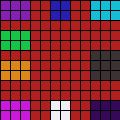
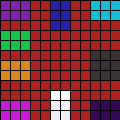
Added Piece class & implemented basic movement

Changed region(s): [[0.425, 0.75, 0.6, 0.85], [0.425, 0.175, 0.6, 0.25]]

diff --git a/GameState.cpp b/GameState.cpp
@@ -43,6 +43,7 @@ namespace gui {
 
 	void GameState::handleInput() {
 		sf::Event event;
+		int dir;
 		while (this->data->window.pollEvent(event)) {
 			if (sf::Event::Closed == event.type) {
 				this->data->window.close();
@@ -50,6 +51,18 @@ namespace gui {
 			if (event.type == sf::Event::KeyPressed) {
 				if (event.key.code == sf::Keyboard::Escape) {
 					this->data->machine.addState(stateRef(new PauseState(data)), false);
+				}
+				if (event.key.code == sf::Keyboard::Right) {
+					piece->movePiece(1);
+				}
+				if (event.key.code == sf::Keyboard::Left) {
+					piece->movePiece(2);
+				}
+				if (event.key.code == sf::Keyboard::Up) {
+					piece->movePiece(3);
+				}
+				if (event.key.code == sf::Keyboard::Down) {
+					piece->movePiece(4);
 				}
 			}
 			if (this->data->input.isSpriteClicked(this->rollButton, sf::Mouse::Left,
@@ -90,6 +103,7 @@ namespace gui {
 		this->data->window.draw(this->gridSprite);
 		this->data->window.draw(this->gridPieces[11][7]);
 		this->data->window.draw(this->gridPieces[11][4]);
+		piece->drawPieces();
 		this->data->window.draw(this->rollButton);
 		this->data->window.draw(this->suggestButton);
 		this->data->window.draw(this->accuseButton);
@@ -107,10 +121,12 @@ namespace gui {
 					tempSpriteSize.x * 10) - 32, gridSprite.getPosition().y + (
 						tempSpriteSize.y * 7) + 270);
 
-		gridPieces[11][4].setTexture(this->data->assets.getTexture("Green Piece"));
-		gridPieces[11][4].setPosition(gridSprite.getPosition().x + (
+		piece = new Piece(data, "Green Piece");
+		tempSpriteSize = this->data->assets.getTexture("Green Piece").getSize();
+		piece->getPiece().setPosition(gridSprite.getPosition().x + (
 					tempSpriteSize.x * 7) - 65, gridSprite.getPosition().y + (
 						tempSpriteSize.y * 7) + 270);
+
 
 		//position remaining game pieces
 	}

diff --git a/Piece.cpp b/Piece.cpp
@@ -1,0 +1,33 @@
+#include "Piece.hpp"
+
+namespace gui {
+	Piece::Piece(GameDataRef data, std::string name) : data(data) {
+		piece.setTexture(data->assets.getTexture(name));
+		piece.setPosition((data->window.getSize().x / 4) - (
+					piece.getGlobalBounds().width / 2), (data->window.getSize().y / 2) -
+				(piece.getGlobalBounds().height / 2));
+	}
+
+	void Piece::drawPieces() {
+		data->window.draw(piece);
+	}
+
+	void Piece::movePiece(int dir) {
+		if (dir == 1)
+			piece.move(GRID_CELL_SIZE, 0);
+		else if (dir == 2)
+			piece.move(-GRID_CELL_SIZE, 0);
+		else if (dir == 3)
+			piece.move(0, -GRID_CELL_SIZE);
+		else
+			piece.move(0, GRID_CELL_SIZE);
+	}
+
+	void Piece::update(float dt) {
+
+	}
+
+	sf::Sprite& Piece::getPiece() {
+		return piece;
+	}
+}

diff --git a/Piece.hpp b/Piece.hpp
@@ -1,0 +1,21 @@
+#pragma once
+
+#include <SFML/Graphics.hpp>
+#include "DEFINITIONS.hpp"
+#include "Game.hpp"
+
+namespace gui {
+	class Piece {
+		public:
+			Piece(GameDataRef data, std::string name);
+			~Piece();
+			void drawPieces();
+			void movePiece(int);
+			void update(float dt);
+			sf::Sprite& getPiece();
+
+		private:
+			GameDataRef data;
+			sf::Sprite piece;
+	};
+}

diff --git a/GameState.hpp b/GameState.hpp
@@ -3,6 +3,7 @@
 #include <SFML/Graphics.hpp>
 #include "State.hpp"
 #include "Game.hpp"
+#include "Piece.hpp"
 
 namespace gui {
 	class GameState : public State {
@@ -28,6 +29,8 @@ namespace gui {
 
 			sf::Sprite gridPieces[12][12];
 			int gridArray[12][12];
+
+			Piece* piece;
 
 			int turn;
 			int gameState;

diff --git a/DEFINITIONS.hpp b/DEFINITIONS.hpp
@@ -30,7 +30,7 @@
 #define P_PIECE_FILEPATH "./Assets/graphics/pPiece.png"
 
 
-
+#define GRID_CELL_SIZE 50
 #define STATE_PLAYING 98
 #define STATE_PAUSED 97
 #define STATE_WON 96
